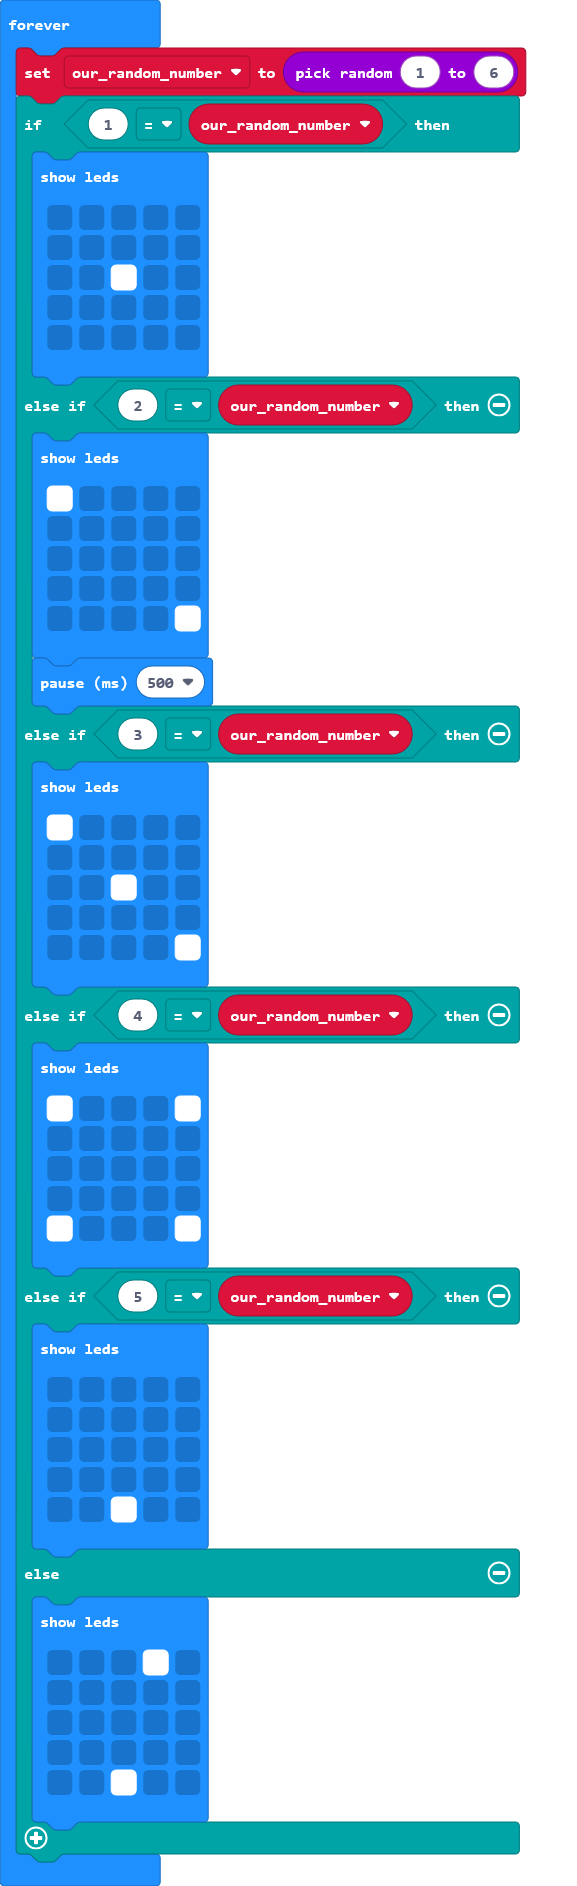
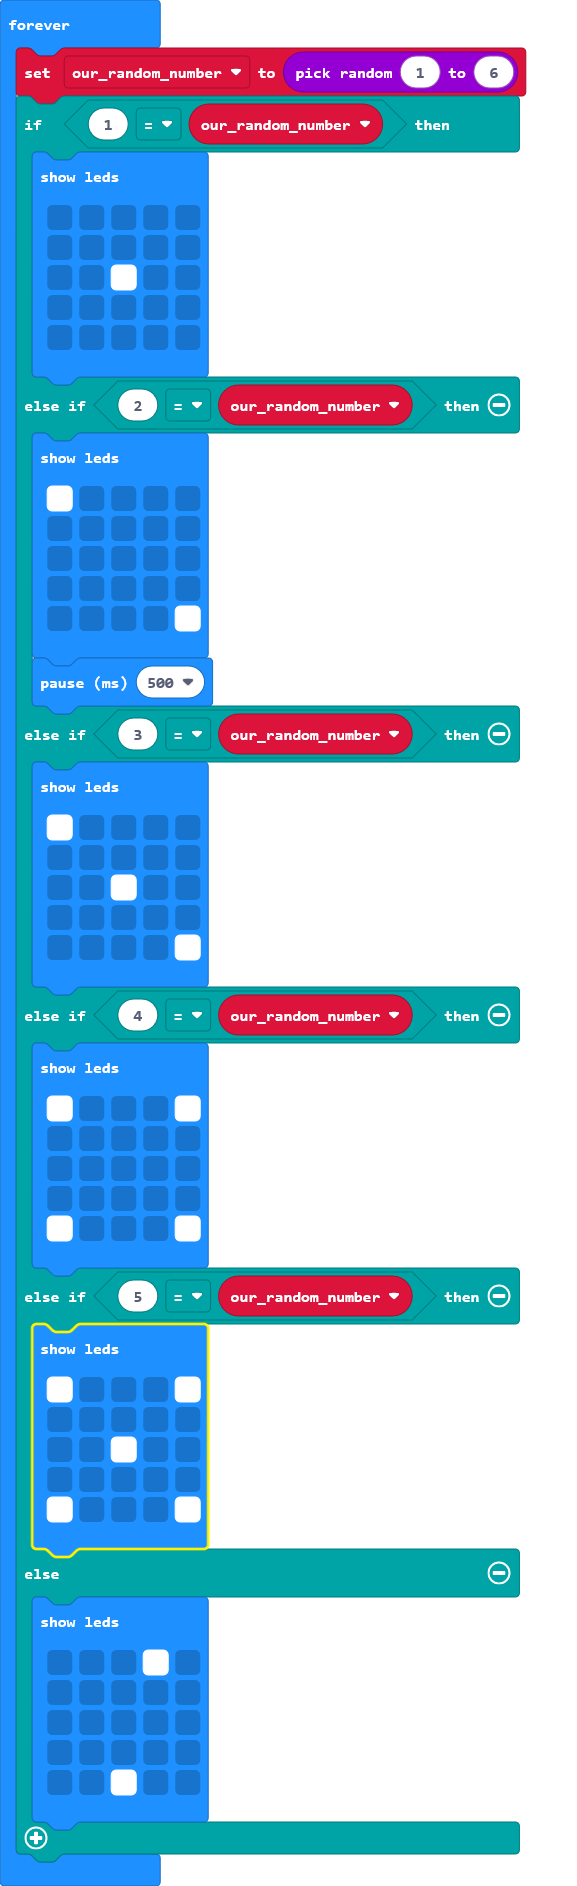
Update main.blocks, main.ts

Changed region(s): [[0.0312, 0.7073, 0.1248, 0.8303], [0.2808, 0.7073, 0.3744, 0.8303], [0.1872, 0.7381, 0.2496, 0.8303]]

diff --git a/main.ts b/main.ts
@@ -36,11 +36,11 @@ basic.forever(function () {
             `)
     } else if (5 == our_random_number) {
         basic.showLeds(`
-            . . . . .
-            . . . . .
-            . . . . .
+            # . . . #
             . . . . .
             . . # . .
+            . . . . .
+            # . . . #
             `)
     } else {
         basic.showLeds(`
